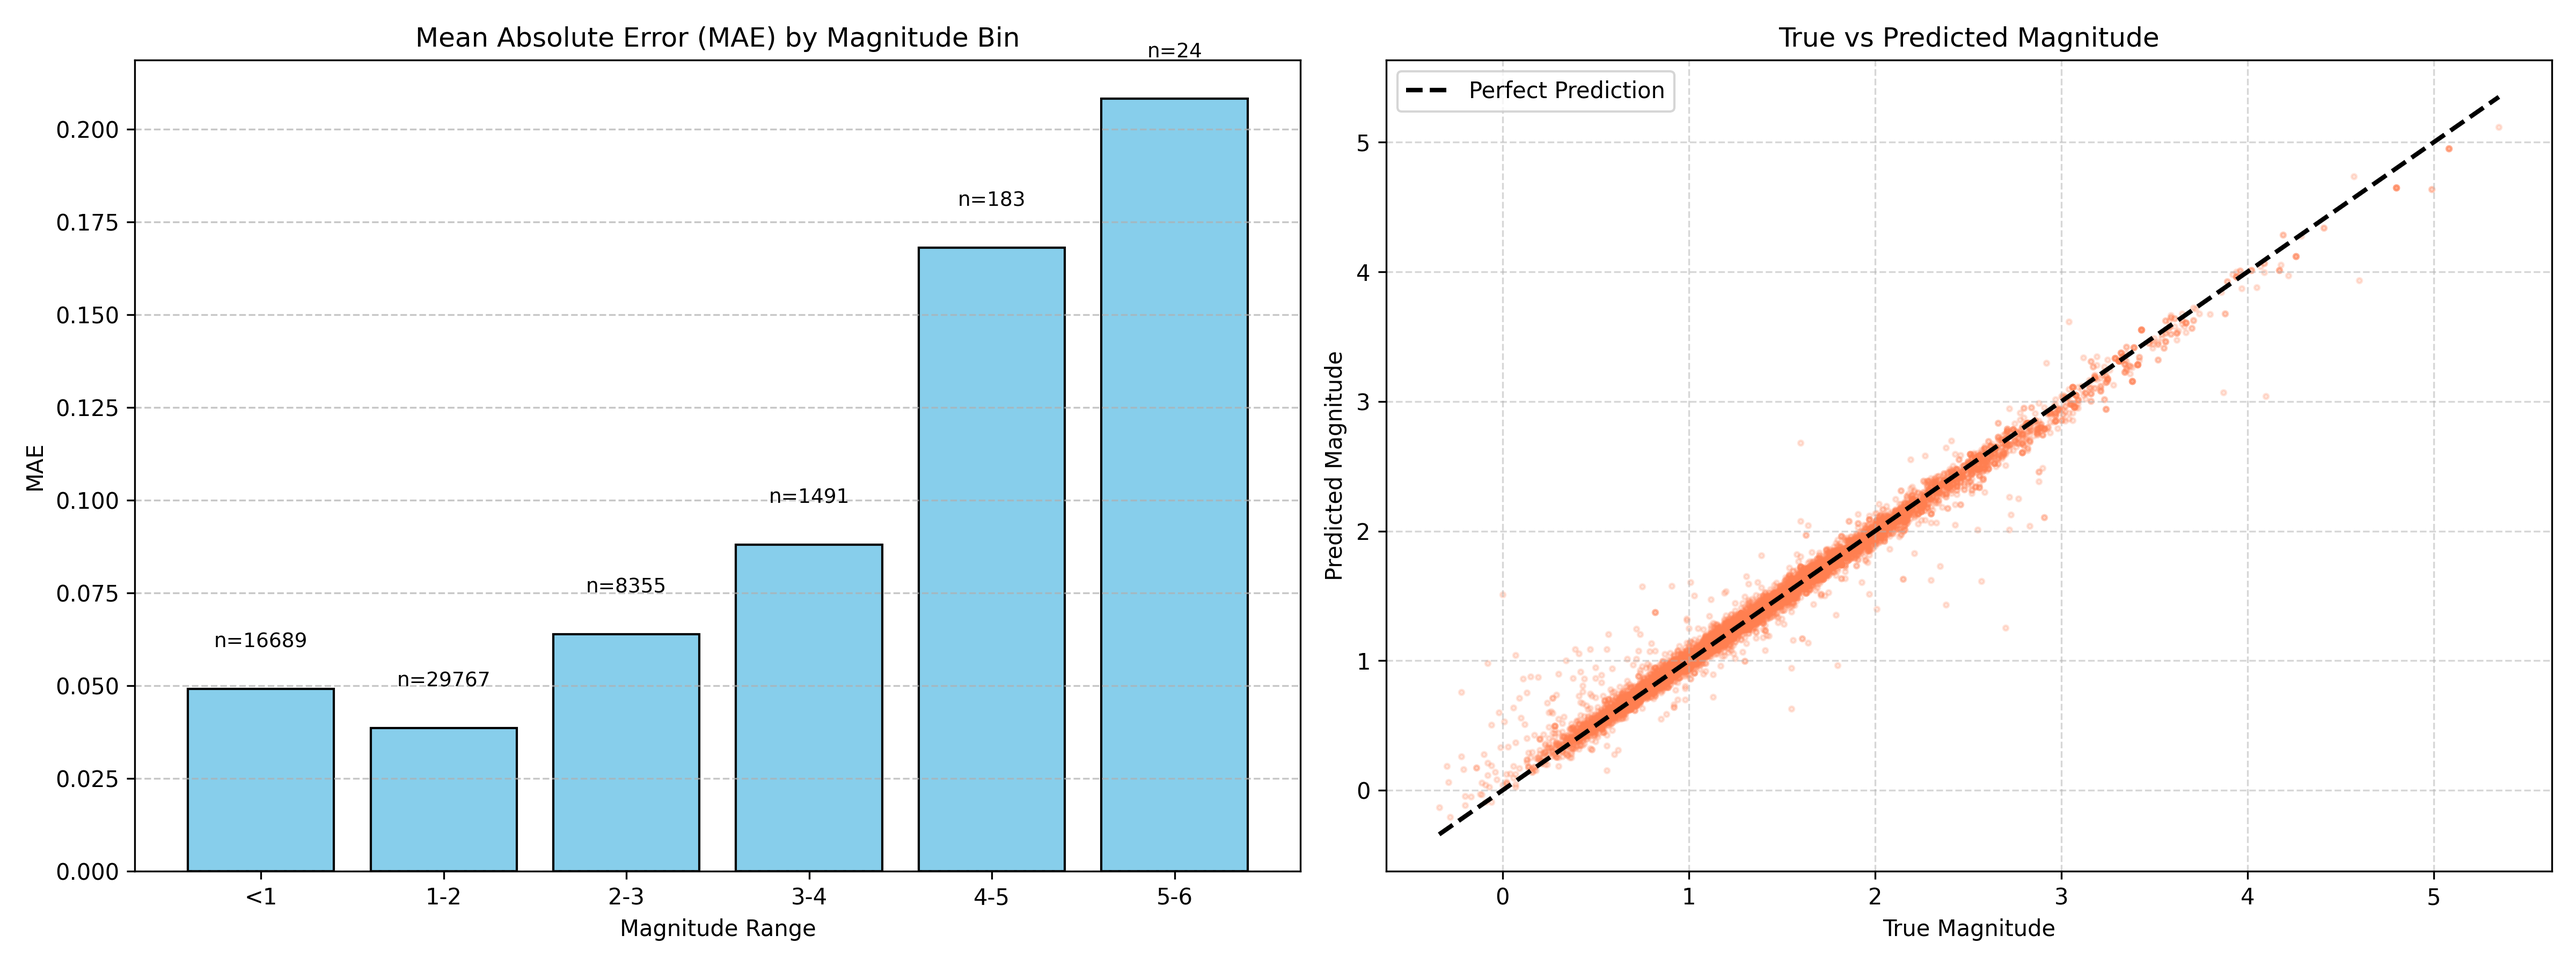
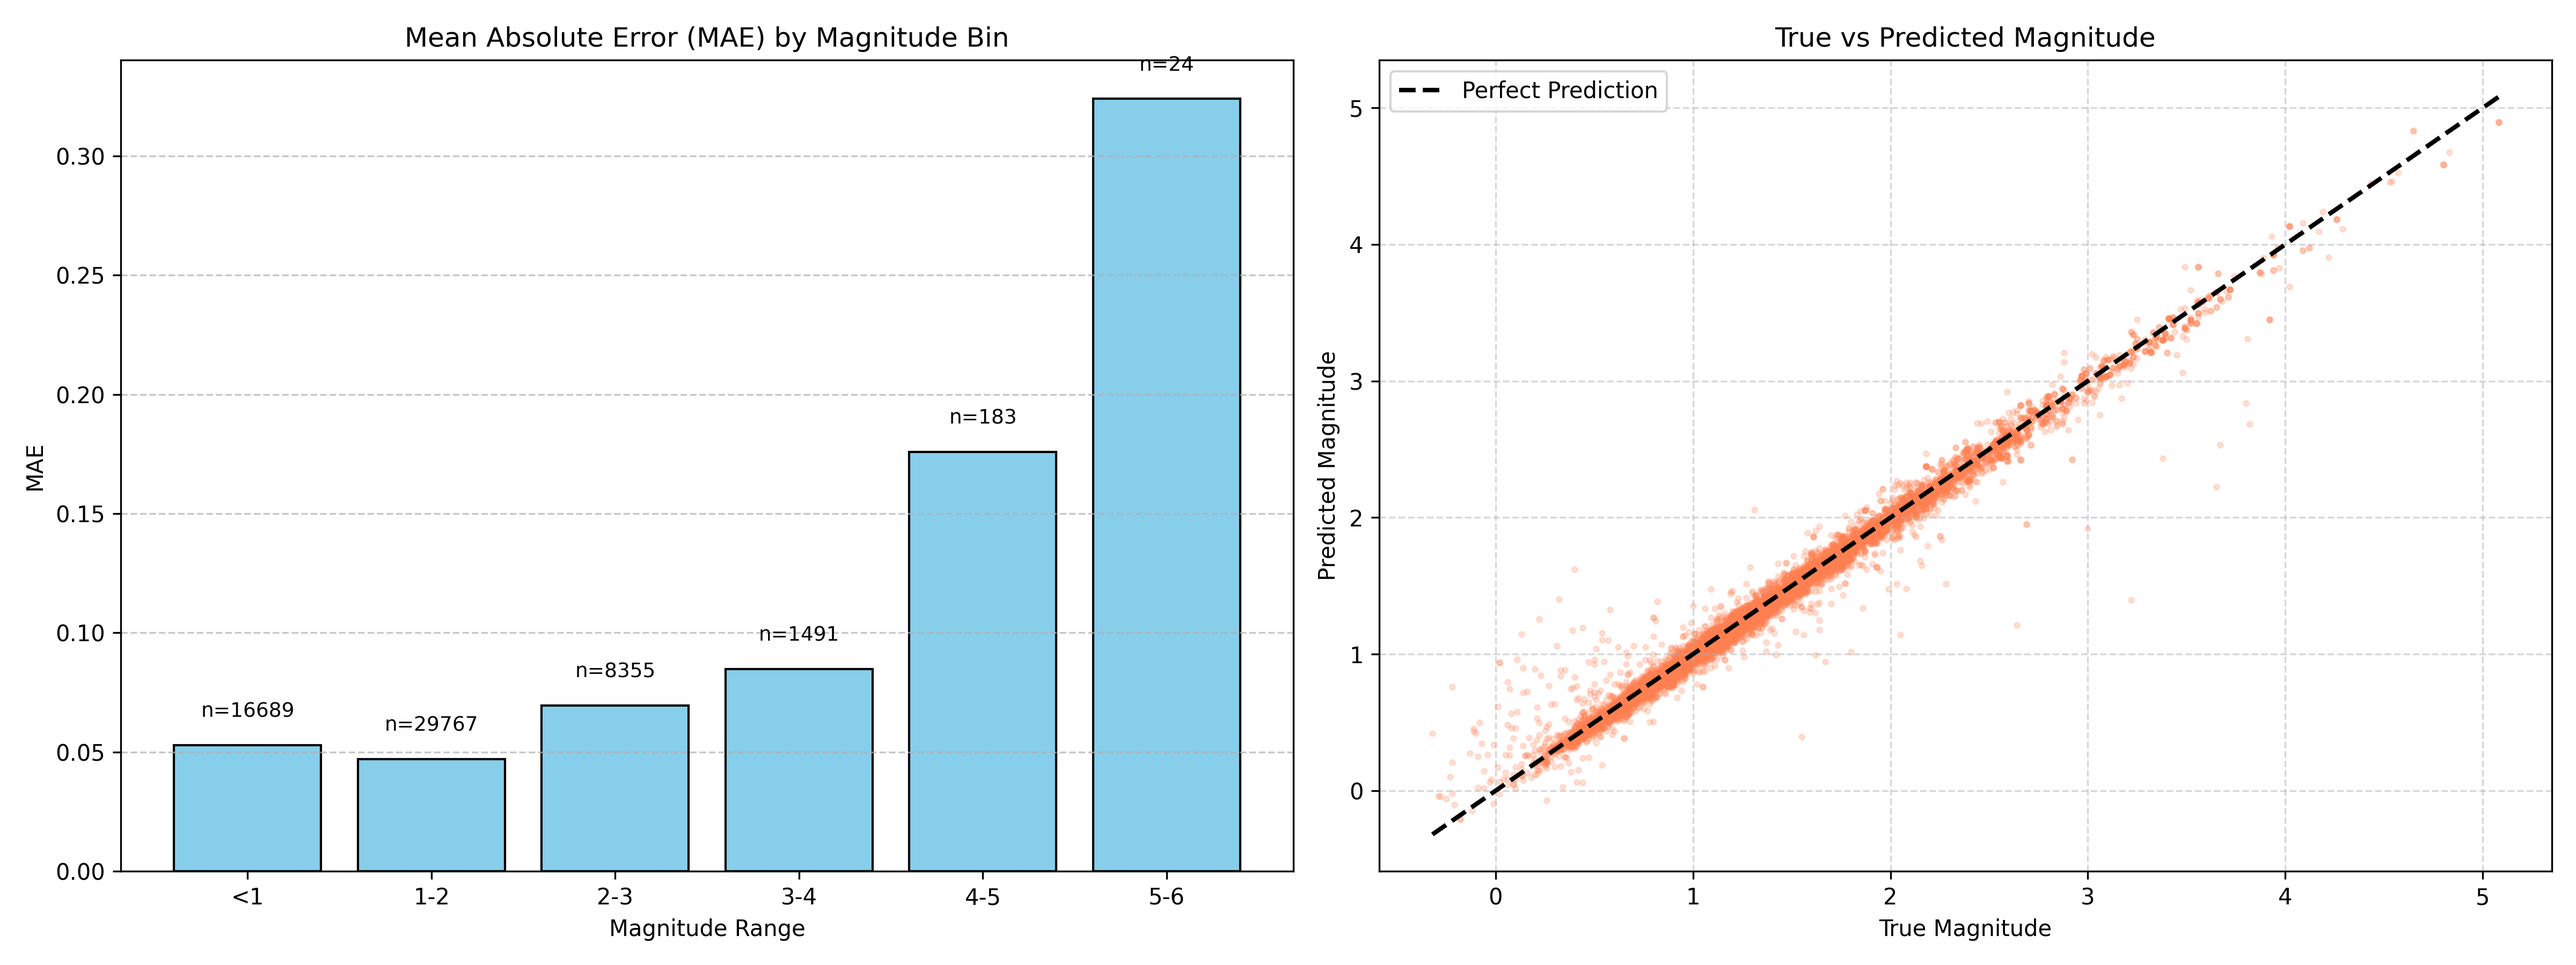
data aug

diff --git a/src/waveform_train.py b/src/waveform_train.py
@@ -5,25 +5,26 @@ from pathlib import Path
 import time
 import torch
 import torch.nn as nn
-from torch.utils.data import DataLoader
+from torch.utils.data import DataLoader, ConcatDataset
 from tqdm import tqdm
 import pandas as pd
 from sklearn.metrics import mean_absolute_error, mean_squared_error, r2_score
 from datasets import load_dataset
 
-# Import the new Mamba2 model
 from models import QuakeWaveMamba2
 
 PROJECT_ROOT = Path(__file__).resolve().parents[1]
 SRC_ROOT = Path(__file__).resolve().parent
 
-# Paths to the cached Arrow directory and the downloaded CSV
-DEFAULT_ARROW_PATH = "/scratch/brikiyou/ift3710/data/ceed_waveforms/AI4EPS___ceed/station_test/1.1.0/c062e7b0694b5aba3f4b3b624a764e52ecffbf5260ebfc550e1256de763c6e03"
-DEFAULT_CSV_PATH = "/scratch/brikiyou/ift3710/data/ceed_waveforms/events_test.csv"
+DEFAULT_ARROW_PATHS = [
+    "/scratch/brikiyou/ift3710/data/ceed_waveforms/AI4EPS___ceed/station_test/1.1.0/c062e7b0694b5aba3f4b3b624a764e52ecffbf5260ebfc550e1256de763c6e03",
+    "/scratch/brikiyou/ift3710/data/ceed_waveforms/AI4EPS___ceed/station_test/1.1.0/augmented_data"
+]
+DEFAULT_CSV_PATH = "/scratch/brikiyou/ift3710/data/ceed_waveforms/events_test_augmented.csv"
 DEFAULT_SAVE_PATH = PROJECT_ROOT / "checkpoints" / "best_quake_mamba2_waveform.pth"
 
 # ==========================================
-# 1. ARROW WAVEFORM DATASET + CSV LABELS
+# 1. ARROW WAVEFORM DATASET (Single Directory)
 # ==========================================
 class ArrowSeismicDataset(torch.utils.data.Dataset):
     def __init__(self, arrow_dir_path: str, csv_path: str):
@@ -37,19 +38,13 @@ class ArrowSeismicDataset(torch.utils.data.Dataset):
         if not arrow_files:
             raise FileNotFoundError(f"Could not find any .arrow files in {arrow_dir_path}")
             
-        print(f"Found {len(arrow_files)} Arrow shards. Stitching them together...")
         self.hf_dataset = load_dataset("arrow", data_files=arrow_files, split="train")
         
-        print(f"Loading magnitude labels from {csv_path}...")
         df = pd.read_csv(csv_path)
-        
-        # Create a lightning-fast O(1) lookup dictionary: {event_time: magnitude}
-        # Fill missing magnitudes with 0.0 to prevent NaN poisoning
         self.mag_lookup = dict(zip(df['event_time'].astype(str), df['magnitude'].fillna(0.0).astype(float)))
         
-        # Format for PyTorch but keep event_time accessible for the lookup
         self.hf_dataset = self.hf_dataset.with_format(type='torch', columns=['data'], output_all_columns=True)
-        print(f"Successfully loaded {len(self.hf_dataset)} seismic events.")
+        print(f"Successfully loaded {len(self.hf_dataset)} events from {arrow_dir_path}")
 
     def __len__(self):
         return len(self.hf_dataset)
@@ -57,23 +52,16 @@ class ArrowSeismicDataset(torch.utils.data.Dataset):
     def __getitem__(self, idx):
         sample = self.hf_dataset[idx]
         
-        # 1. Extract the (3, 8192) waveform tensor
         waveform = sample['data']
-        
-        # 2. Scrub the raw data for dead sensors (NaNs or Infinities)
         waveform = torch.nan_to_num(waveform, nan=0.0, posinf=0.0, neginf=0.0)
         
-        # 3. Lookup the magnitude using the timestamp
         event_time_str = str(sample['event_time'])
         mag_value = self.mag_lookup.get(event_time_str, 0.0)
         magnitude = torch.tensor([mag_value], dtype=torch.float32)
         
-        # 4. Robust Z-score normalization per channel
         mean = waveform.mean(dim=1, keepdim=True)
-        std = waveform.std(dim=1, keepdim=True) + 1e-5 # Higher epsilon to prevent div by zero
+        std = waveform.std(dim=1, keepdim=True) + 1e-5
         waveform = (waveform - mean) / std
-        
-        # 5. Final scrub just in case normalization created new NaNs
         waveform = torch.nan_to_num(waveform, nan=0.0, posinf=0.0, neginf=0.0)
             
         return waveform.float(), magnitude
@@ -100,7 +88,7 @@ def configure_hf_cache():
         os.environ["HF_HOME"] = str(hf_home)
 
 # ==========================================
-# 2. EVALUATION FUNCTION (REGRESSION)
+# 2. EVALUATION FUNCTION
 # ==========================================
 def evaluate_split(model, dataloader, criterion, device, desc: str):
     model.eval()
@@ -112,14 +100,14 @@ def evaluate_split(model, dataloader, criterion, device, desc: str):
         for x, y in split_bar:
             x, y = x.to(device), y.to(device)
 
-            # FULL FP32 PRECISION (No Autocast)
-            preds = model(x)
-            loss = criterion(preds, y)
+            with torch.autocast(device_type='cuda', dtype=torch.bfloat16):
+                preds = model(x)
+                loss = criterion(preds, y)
                 
             split_loss += loss.item()
 
-            all_preds.extend(preds.cpu().numpy().flatten())
-            all_targets.extend(y.cpu().numpy().flatten())
+            all_preds.extend(preds.float().cpu().numpy().flatten())
+            all_targets.extend(y.float().cpu().numpy().flatten())
 
     avg_loss = split_loss / len(dataloader)
     
@@ -143,11 +131,17 @@ def train(args):
     device = torch.device("cuda" if torch.cuda.is_available() else "cpu")
     print(f"Using device: {device}")
 
-    # --- Data Loading ---
-    arrow_path = str(resolve_path(args.arrow_path))
+    # --- Data Loading (PyTorch Concat Bypass) ---
     csv_path = str(resolve_path(args.csv_path))
     
-    full_dataset = ArrowSeismicDataset(arrow_path, csv_path)
+    individual_datasets = []
+    for path in args.arrow_paths:
+        ds = ArrowSeismicDataset(str(resolve_path(path)), csv_path)
+        individual_datasets.append(ds)
+        
+    print("Stitching datasets together via PyTorch ConcatDataset...")
+    full_dataset = ConcatDataset(individual_datasets)
+    print(f"Total Combined Dataset Size: {len(full_dataset)}")
     
     train_size = int(0.8 * len(full_dataset))
     val_size = len(full_dataset) - train_size
@@ -155,7 +149,6 @@ def train(args):
         full_dataset, [train_size, val_size], generator=torch.Generator().manual_seed(42)
     )
 
-    # Note: drop_last=True is critical for Mamba-2 to prevent weird batch sizes crashing causal_conv1d
     train_loader = DataLoader(train_dataset, batch_size=args.batch_size, shuffle=True, num_workers=args.num_workers, pin_memory=True, drop_last=True)
     val_loader = DataLoader(val_dataset, batch_size=args.batch_size, shuffle=False, num_workers=args.num_workers, pin_memory=True, drop_last=True)
     
@@ -167,6 +160,9 @@ def train(args):
         n_layers=args.n_layers,
         headdim=args.mamba_headdim,
     ).to(device)
+
+    #print("Compiling model for Hopper Tensor Cores...")
+    #model = torch.compile(model)
 
     criterion = nn.L1Loss()
     optimizer = torch.optim.AdamW(model.parameters(), lr=args.lr, weight_decay=args.weight_decay)
@@ -187,7 +183,6 @@ def train(args):
                 config=vars(args),
                 mode=args.wandb_mode
             )
-            wandb.watch(model)
         except ImportError:
             print("W&B not installed. Continuing without logging.")
     else:
@@ -210,9 +205,9 @@ def train(args):
                 x, y = x.to(device), y.to(device)
                 optimizer.zero_grad()
                 
-                # FULL FP32 PRECISION (No Autocast or Scaler)
-                preds = model(x)
-                loss = criterion(preds, y)
+                with torch.autocast(device_type='cuda', dtype=torch.bfloat16):
+                    preds = model(x)
+                    loss = criterion(preds, y)
                 
                 loss.backward()
                 torch.nn.utils.clip_grad_norm_(model.parameters(), max_norm=1.0)
@@ -267,15 +262,14 @@ def train(args):
 if __name__ == "__main__":
     parser = argparse.ArgumentParser(description="Train QuakeWaveMamba2 for Seismic Regression")
     
-    # Data arguments
-    parser.add_argument("--arrow_path", type=str, default=DEFAULT_ARROW_PATH, help="Direct path to the cached .arrow dataset directory")
-    parser.add_argument("--csv_path", type=str, default=DEFAULT_CSV_PATH, help="Direct path to the events_test.csv file")
-    parser.add_argument("--num_workers", type=int, default=4, help="Number of dataloader workers")
+    parser.add_argument("--arrow_paths", nargs='+', default=DEFAULT_ARROW_PATHS, help="List of paths to the cached .arrow dataset directories")
+    parser.add_argument("--csv_path", type=str, default=DEFAULT_CSV_PATH, help="Path to the merged augmented events CSV file")
     
-    # Training hyperparameters
+    parser.add_argument("--num_workers", type=int, default=16, help="Number of dataloader workers (Maximized for H100)")
+    parser.add_argument("--batch_size", type=int, default=256, help="Batch size (Maximized for 80GB VRAM in BF16)")
+    parser.add_argument("--lr", type=float, default=1e-4, help="Learning rate (Increased to compensate for large batch size)")
+    
     parser.add_argument("--epochs", type=int, default=30, help="Number of training epochs")
-    parser.add_argument("--batch_size", type=int, default=32, help="Batch size")
-    parser.add_argument("--lr", type=float, default=1e-4, help="Learning rate (Lowered for stability)")
     parser.add_argument("--weight_decay", type=float, default=0.01, help="Weight decay for AdamW")
     
     # Mamba2 parameters
@@ -289,7 +283,7 @@ if __name__ == "__main__":
     parser.add_argument("--disable_wandb", action="store_true", help="Disable Weights & Biases logging")
     parser.add_argument("--wandb_project", type=str, default="quake-wave-mamba2", help="W&B project name")
     parser.add_argument("--wandb_entity", type=str, default="", help="W&B entity/team")
-    parser.add_argument("--wandb_run_name", type=str, default="run-1", help="W&B run name")
+    parser.add_argument("--wandb_run_name", type=str, default="run-h100-bf16", help="W&B run name")
     parser.add_argument(
         "--wandb_mode",
         type=str,

diff --git a/src/data-processing/california/ceed_data_augmentation.py b/src/data-processing/california/ceed_data_augmentation.py
@@ -1,0 +1,118 @@
+import os
+import h5py
+import numpy as np
+import pandas as pd
+from datetime import datetime, timedelta
+from datasets import Dataset
+import torch
+
+from tqdne.generate_waveforms import generate
+
+def pad_with_ambient_noise(waveform, target_length=8192, noise_window=200):
+    current_length = waveform.shape[1]
+    pad_length = target_length - current_length
+    
+    if pad_length <= 0: return waveform[:, :target_length]
+        
+    padded_waveform = np.zeros((3, target_length))
+    for c in range(3):
+        channel_data = waveform[c]
+        noise_mean = np.mean(channel_data[:noise_window])
+        noise_std = np.std(channel_data[:noise_window])
+        tail_noise = np.random.normal(loc=noise_mean, scale=noise_std + 1e-6, size=pad_length)
+        padded_waveform[c] = np.concatenate([channel_data, tail_noise])
+        
+    return padded_waveform
+
+def run_fast_augmentation():
+    # 1. Config
+    magnitudes = np.random.normal(5.0, 0.5, size=5).tolist()
+    depths_km = np.random.uniform(low=5.0, high=20.0, size=5).tolist()    
+    samples_per_combo = 256  
+    
+    original_csv_path = "/scratch/brikiyou/ift3710/data/ceed_waveforms/events_test.csv"
+    new_csv_path = "/scratch/brikiyou/ift3710/data/ceed_waveforms/events_test_augmented.csv"
+    arrow_output_dir = "/scratch/brikiyou/ift3710/data/ceed_waveforms/AI4EPS___ceed/station_test/1.1.0/augmented_data"
+    os.makedirs(arrow_output_dir, exist_ok=True)
+    
+    new_csv_rows = []
+    all_generated_waveforms = []
+    
+    synthetic_base_time = datetime(2099, 1, 1)
+    time_increment = timedelta(minutes=5)
+    current_time = synthetic_base_time
+
+    torch.backends.cuda.matmul.allow_tf32 = True
+    torch.backends.cudnn.allow_tf32 = True
+
+    print("Starting H100-Optimized Generation...")
+
+    for mag in magnitudes:
+        for depth in depths_km:
+            print(f"Generating {samples_per_combo} samples for Mag {mag}, Depth {depth}km...")
+            temp_h5_file = f"temp_aug_mag{mag}_depth{depth}.h5"
+            
+            generate(
+                hypocentral_distance=np.random.uniform(50, 600), 
+                magnitude=mag,
+                vs30=np.random.uniform(150, 400),
+                hypocentre_depth=depth,
+                azimuthal_gap=np.random.uniform(50, 180),
+                num_samples=samples_per_combo,
+                csv="", 
+                outfile=temp_h5_file,
+                
+                batch_size=256, 
+                
+                edm_checkpoint="/scratch/brikiyou/ift3710/tqdne-0.2.1/tqdne/weights/edm.ckpt",
+                autoencoder_checkpoint="/scratch/brikiyou/ift3710/tqdne-0.2.1/tqdne/weights/autoencoder.ckpt"
+            )
+            
+            with h5py.File(temp_h5_file, "r") as f:
+                raw_waveforms = f["waveforms"][:] 
+                for i in range(samples_per_combo):
+                    padded_wave = pad_with_ambient_noise(raw_waveforms[i], target_length=8192)
+                    event_time_str = current_time.isoformat()
+                    
+                    begin_time_dt = current_time - timedelta(seconds=28)
+                    end_time_dt = begin_time_dt + timedelta(seconds=120)
+
+                    new_csv_rows.append({
+                        "begin_time": begin_time_dt.isoformat(),
+                        "depth_km": depth,
+                        "end_time": end_time_dt.isoformat(),
+                        "event_id": f"aug_m{mag:.2f}_d{depth:.2f}_{i}",
+                        "event_time": current_time.isoformat(),
+                        "event_time_index": 2800.0,    # Average pick index from your original data
+                        "latitude": 37.0,              # Dummy central California coord
+                        "longitude": -120.0,           # Dummy central California coord
+                        "magnitude": mag,
+                        "magnitude_type": "SYN",       # Tagging type as Synthetic
+                        "nt": 8192.0,                  # Your padded waveform length
+                        "nx": 1.0,                     # Single generated station
+                        "sampling_rate": 100, 
+                        "source": "TQDNE_AUG" 
+                    })           
+                             
+                    all_generated_waveforms.append(padded_wave)
+                    current_time += time_increment
+            
+            os.remove(temp_h5_file)
+
+    print("\nMerging metadata into new CSV...")
+    df_original = pd.read_csv(original_csv_path)
+    df_augmented = pd.DataFrame(new_csv_rows)
+    df_combined = pd.concat([df_original, df_augmented], ignore_index=True)
+    df_combined.to_csv(new_csv_path, index=False)
+    
+    print("Converting to Arrow format...")
+    hf_dataset = Dataset.from_dict({
+        "data": all_generated_waveforms,
+        "event_time": [row["event_time"] for row in new_csv_rows]
+    })
+    
+    hf_dataset.save_to_disk(arrow_output_dir)
+    print(f"Augmentation complete! Added {len(new_csv_rows)} samples.")
+
+if __name__ == "__main__":
+    run_fast_augmentation()

diff --git a/src/evaluate_waveform.py b/src/evaluate_waveform.py
@@ -87,7 +87,7 @@ def parse_args():
                         default="/scratch/brikiyou/ift3710/data/ceed_waveforms/AI4EPS___ceed/station_test/1.1.0/c062e7b0694b5aba3f4b3b624a764e52ecffbf5260ebfc550e1256de763c6e03",
                         help="Path to huggingface arrow file directory")
     parser.add_argument("--csv_path", type=str, 
-                        default="/scratch/brikiyou/ift3710/data/ceed_waveforms/events_test.csv",
+                        default="/scratch/brikiyou/ift3710/data/ceed_waveforms/events_test_augmented.csv",
                         help="Path to CSV containing event magnitudes")
     parser.add_argument("--checkpoint", type=str,
                         default="/scratch/brikiyou/ift3710/checkpoints/best_quake_mamba2_waveform.pth",
